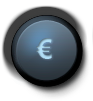
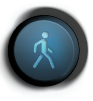
Version final 1.0.0

diff --git a/index.html b/index.html
@@ -53,9 +53,7 @@
 	  	$("#layer-mapa").css("height", $(window).height() - parseInt($(".botones").css("height")) + 5);
 	  	
 	    $(window).resize(function(){
-        	
         	$("#layer-mapa").css("height", $(window).height() - parseInt($(".botones").css("height")) + 5)
-        	$("#info").css("width", $(window).width())
         });
 	
         $('#selectZonas').on("pagebeforeload", function() {
@@ -136,12 +134,33 @@
 		
 	});
 	
+	var directionsDisplay;
+	var directionsService = new google.maps.DirectionsService();
+	function calcRoute() {
+		if(parseInt(globales['accuracy'])<20){
+			var start = new google.maps.LatLng(globales['lat'],globales['lng']);
+			var end = marker.getPosition();
+			var request = {
+				origin:start,
+				destination:end,
+				travelMode: google.maps.TravelMode.WALKING
+			};
+			directionsDisplay = new google.maps.DirectionsRenderer();
+			directionsDisplay.setMap(map);
+			directionsService.route(request, function(result, status) {
+				if (status == google.maps.DirectionsStatus.OK) {
+					directionsDisplay.setDirections(result);
+				}
+			});
+		}
+	}
+	
     function initialize(lat,lng,accuracy) {
 		/*globales['lat']="41.795232";
     	globales['lng']="3.042054";*/
     	globales['lat']=lat;
     	globales['lng']=lng;
-    	globales['accuracy']=accuracy + 150;
+    	globales['accuracy']=accuracy;
 		var latlng = new google.maps.LatLng(lat, lng);
 		var myOptions = {
 			zoom: 16,
@@ -153,7 +172,7 @@
 		    mapTypeControl: false,
 			mapTypeId: google.maps.MapTypeId.ROADMAP
 		};
-	    var map = new google.maps.Map(document.getElementById("map_canvas"),myOptions);
+	    map = new google.maps.Map(document.getElementById("map_canvas"),myOptions);
 	    
 	    marker = new google.maps.Marker({
 			position: latlng, 
@@ -161,24 +180,39 @@
 		 	title: "Mi coche!"
 		});
 				
-	    var circle = new google.maps.Circle({
-		    center: latlng,
-		    radius: globales['accuracy'],
-		    map: map, //your map,
-		    fillColor: 'blue', //color,
-		    fillOpacity: 0.2, //opacity from 0.0 to 1.0,
-		    strokeColor: 'blue', //stroke color,
-		    strokeOpacity: 0.5 //opacity from 0.0 to 1.0
+	   var circle = new google.maps.Circle({
+			    center: latlng,
+			    radius: globales['accuracy'],
+			    map: map, //your map,
+			    fillColor: 'blue', //color,
+			    fillOpacity: 0.2, //opacity from 0.0 to 1.0,
+			    strokeColor: 'blue', //stroke color,
+			    strokeOpacity: 0.5 //opacity from 0.0 to 1.0
 		});
+			
+		//Si el margen de error es mayor a 20
+		if(parseInt(globales['accuracy'])>20){
+			if(navigator.notification){
+				navigator.notification.alert(
+				    'No es posible determinar una posici?n precisa de su ubicaci\xf3n actual.',     // mensaje (message)
+				    alertDismissed,         // funci?n 'callback' (alertCallback)
+				    'Posici?n no precisa',            // titulo (title)
+				    'Cerrar'                // nombre del bot?n (buttonName)
+				);
+			}else{
+	    		alert("No es posible determinar una precisa muy exacta de su ubicaci\xf3n actual.");
+	    	}
+	    	//set the zoom level to the circle's size
+		    map.fitBounds(circle.getBounds());
+	    }
+	    
 		
-		//set the zoom level to the circle's size
-		map.fitBounds(circle.getBounds());
+		
 		
 		checkRun();
 		if(fechaServidor!=null)
-			setDiferenciaHora();	
+			setDiferenciaHora();		
 			
-		$("#info").css("width", $(window).width())	
 	}
     
     
@@ -348,18 +382,19 @@
    var diferencia_time_segundos=0;
    var time_vacio=0;
    var pausa=false;
+   var limiteAlcanzado= false;
    
    function horaLimite(){
 	   //alerta cerrada
 	   if(navigator.notification)
 		navigator.notification.alert(
-		    'Quedan 10 minutos para llegar al l&iacute;mite de tiempo',     // mensaje (message)
+		    'Quedan 10 minutos para llegar al l\xedmite de tiempo',     // mensaje (message)
 		    alertDismissed,         // funci?n 'callback' (alertCallback)
-		    'L?mite de tiempo',            // titulo (title)
+		    'L\xedmite de tiempo',            // titulo (title)
 		    'Cerrar'                // nombre del bot?n (buttonName)
 		);
 	   else
-	   	alert("Quedan 10 minutos para llegar al l&iacute;mite de tiempo");
+	   	alert("Quedan 10 minutos para llegar al l\xedmite de tiempo");
 	   	
 	   	
 	   	horaLimiteBool=true;
@@ -416,35 +451,47 @@
    function updateCounter(precioHora, limite){
    		if(!checkHorario() || time_segundos>=limite*60) {
    			pausa=true;
+   			if(!limiteAlcanzado) {
+   				printTime(precioHora, limite*60, limite);
+   			}
    			return 0;
    		}
    		if(pausa) {
 	   		checkRun();
 	   		pausa=false;
+	   		limiteAlcanzado=false;
    		}
    		
    		precioMin = (precioHora/60);
    		
    		time_segundos=diferenciaFechas(fechaInicio);
    		
-   		if((time_segundos)>=limite*60 && !horaLimiteBool) {
+	  	printTime(precioHora, time_segundos, limite);
+   }
+   
+   function printTime(precioHora, tiempo, limite) {
+	   
+	   precioMin = (precioHora/60);
+   		
+   		
+   		if((tiempo)>=((limite*60)-10) && !horaLimiteBool) {
    			horaLimite();
 	   		precioT = limite*precioMin;
    		} else {
-   			fix = time_segundos + 60;
+   			fix = tiempo + 60;
 	   		precioT = precioMin * (Math.floor(fix/60));
    		}
    		
    		var precioTT = precioT.toFixed(2);
    		
-   		horas = Math.floor(time_segundos/3600);
-   		var minutos = Math.floor(time_segundos/60) - horas*60;
-   		var segundos = Math.floor(time_segundos%60);
+   		horas = Math.floor(tiempo/3600);
+   		var minutos = Math.floor(tiempo/60) - horas*60;
+   		var segundos = Math.floor(tiempo%60);
    		var tiempo = formatoT(horas) + ":" + formatoT(minutos) + ":" + formatoT(segundos);
    		var html = precioTT + "&euro;<span>" + tiempo + "</span>";
    		
    		$('#tarifaUpdate').html(html);
-	  	
+   		
    }
    
    function setDiferenciaHora() {
@@ -534,7 +581,6 @@
     }
     
 </script>
-
 </head>
 
 <body>
@@ -662,7 +708,7 @@
         </div>
         <div class="info" id="info"></div>
 		<div class="botones" data-theme="a">
-			<a href="" data-json="getTicket" data-json-data="getTicketActualJSON()" class="btn-euros"></a>
+			<a href="" data-json="getRuta" data-json-data="getTicketActualJSON()" class="btn-euros"></a>
 			<a href="" data-json="clickSearchZonas" data-json-data="getCoordsJSON()" data-json-destino="#info" class="btn-run"></a>
 			<a href="#confirmarStop" class="btn-stop" data-rel="dialog"></a>
 			<a href="#clickTools" class="btn-tools" data-rel="page" data-shadow="true"  data-transition="pop" data-corners="true"></a>
@@ -685,7 +731,7 @@
 
 	<!-- Seleccionar zonas -->
 	<div data-role="dialog" data-transition="none" id="selectZonas">
-		<div data-role="header" data-theme="a"><h1>Zona</h1></div>
+		<div data-role="header" data-theme="a"><h1>SELECCIONAR ZONA</h1></div>
 		<div data-role="content" data-theme="c">
 			<div class="content">
 			</div>
@@ -749,12 +795,12 @@
 		<div data-role="header" data-theme="a"><h1>Ticket</h1></div>
 		<div data-role="content" data-theme="c">
 			<div class="content">
-			¿Desea finalizar su aparcamiento? 
+			¿Desea finalizar su aparcamiento?
 			</div>
 			<table width="100%">
 				<tr>
 					<td>
-						<a href="#" data-role="button" data-theme="b" onclick="navigator.app.exitApp();" data-rel="back">Salir</a>
+						<a href="#" data-role="button" data-theme="a" data-rel="exit" onClick="navigator.app.exitApp()">Salir</a>
 					</td>
 					<td>
 						<a href="#" data-role="button" data-theme="b" data-rel="back">Volver</a>
@@ -807,22 +853,28 @@
 			<div class="content-primary">	
 				<ul data-role="listview">
 					<li>
-						<a href="#gestionVehiculos" class="ui-link-inherit">
-							<h3>Gestión de vehículos</h3>
-							<p>Desde este apartado podrás dar de alta y baja tu flota de vehículos.</p>
-						</a>
-					
-					</li>
-					<li>
 						<a href="#perfil" class="ui-link-inherit">
-							<h3>Perfil</h3>
+							<h3>Usuario</h3>
 							<p>Apartado desde el que podrás cambiar tus datos de acceso a la app.</p>
 						</a>
 					</li>
 					<li>
+						<a href="#gestionVehiculos" class="ui-link-inherit">
+							<h3>Mis matriculas</h3>
+							<p>Para cambiar/borrar/añadir matrículas.</p>
+						</a>
+					
+					</li>
+					<li>
 						<a href="#gestionPagos" class="ui-link-inherit">
-							<h3>Gestión de pagos</h3>
+							<h3>Mis tickets</h3>
 							<p>Desde este aparado podras gestionar las formas de pago.</p>
+						</a>
+					</li>
+					<li>
+						<a href="#gestionPagos" class="ui-link-inherit">
+							<h3>Normativa de aparcamiento</h3>
+							<p>Información de tarifas, zonas, períodos de pago, tiempos máximos...</p>
 						</a>
 					</li>
 					<li>
@@ -833,14 +885,8 @@
 					</li>
 					<li>
 						<a href="#" data-json="salir" class="ui-link-inherit">
-							<h3>Cerrar sesion</h3>
-							<p>Cierra la sesión actual</p>
-						</a>
-					</li>
-					<li>
-						<a href="#" onclick="navigator.app.exitApp();" data-json="salir" class="ui-link-inherit">
 							<h3>Salir</h3>
-							<p>Se cierra APParca</p>
+							<p>Cierra la sesión actual</p>
 						</a>
 					</li>
 				</ul>
@@ -1009,9 +1055,7 @@
 		</div>
 		<div data-role="content" data-theme="c">
 			<div id="errorAlert_html"></div>
-			<a href="#" data-role="button" data-theme="a"  data-rel="back">Volver</a>
 		</div>	   
-		
 	</div>
 	
 	<a data-rel="dialog" id="emulClick" href="#" ></a>		

diff --git a/assets/css/style.css b/assets/css/style.css
@@ -3,7 +3,6 @@ html, body {
     font-family: Arial, Helvetica, Sans-serif;
     background: #666666;
     padding: 0px;
-    overflow: hidden;
 }
 
 .details-page {
@@ -80,7 +79,7 @@ a.btn-euros {
 }
 a.btn-tools {
 	background: url(../images/boton_tools.png) no-repeat;
- left: 68px;
+left: 68px;
 
 	
 }
@@ -100,14 +99,11 @@ a.btn-tools {
 		color-stop(0.55, rgb(252,252,252))
 	);
 	position: absolute;
-	padding: 2%;
-	width: 97%;
+	padding: 10px;
+	width: 100%;
 	bottom: 100px;
 	
 	box-shadow: -8px -2px 12px #333;
-
-	overflow: hidden;
-
 }
 
 .col2 {
@@ -244,4 +240,33 @@ position: absolute  !important;
 top: 50%  !important;
 margin-left: -22px  !important;
 margin-top: -22px  !important;
+}
+
+
+.tipoZonas.c_2{
+	background-image: none;
+	background-color: #D5FDB0;
+}
+
+.ui-btn-active.c2{
+	background-color: #6FA83A!important;
+}
+
+.tipoZonas.c_1{
+	background-image: none;
+	background-color: #B0DEFD;
+}
+.ui-btn-active.c1{
+	background-color: #4593C7!important;
+}
+
+a[title="Close"] {
+	
+	display: none !important;
+	
+}
+
+.ui-btn-inner {
+padding: 15px 20px !important;
+font-size: 115% !important;
 }
